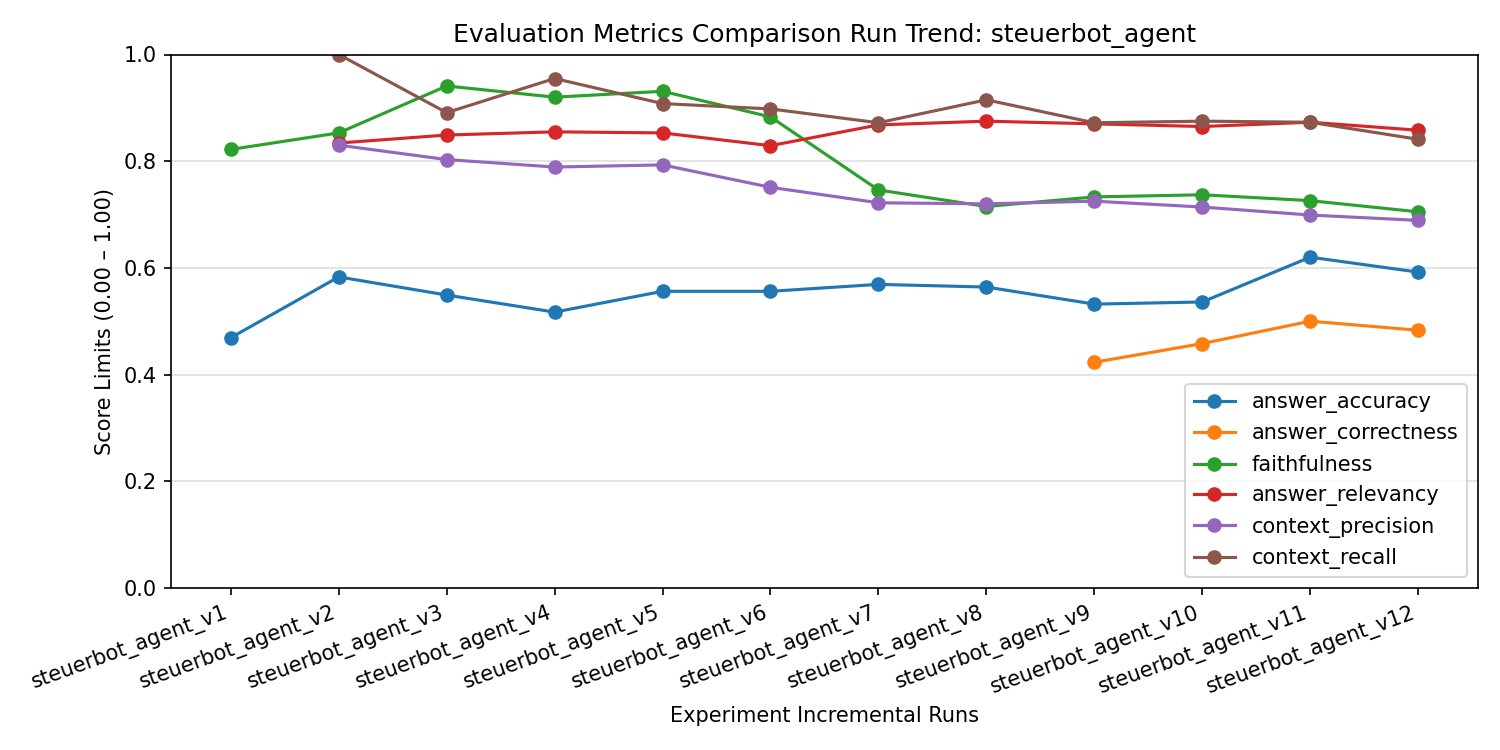
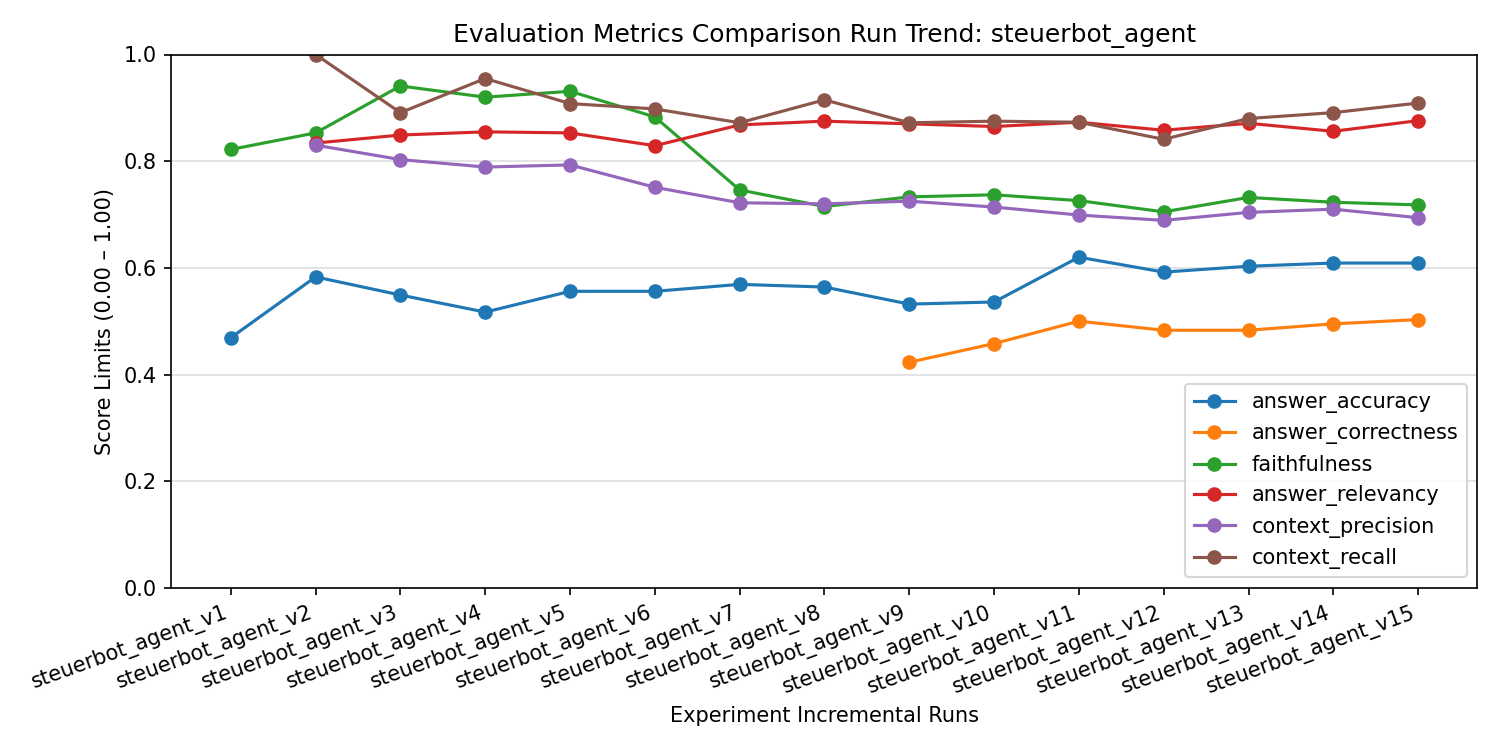
readme changes

diff --git a/README.md b/README.md
@@ -243,11 +243,11 @@ Die Evaluation verwendet das [RAGAS](https://docs.ragas.io/)-Framework mit 5 Met
 
 | **Metrik**        | letztes Resultat | unser Fazit                                                                                                                                                                                                                          |
 | ----------------- | -------- | ------------------------------------------------------------------------------------------------------------------------------------------------------------------------------------------------------------------------------------ |
-| answer_accuracy   | 0.556    | Die meisten Antworten im Testset sind ein Satz lang. Ein Agent der korrekt antwortet, aber ausführlicher formuliert, landet wahrscheinlich bei 0.5 statt 1.0.                                                                        |
-| faithfulness      | 0.883    | Der Agent antwortet in 88% der Fälle ausschliesslich aus den gegebenen Quellen ohne zu halluzinieren. Leider wissen wir nicht, wie wir das Testergebnis weiter optimieren könnten ohne einen Kompromiss im System-Prompt einzugehen. |
-| answer_relevancy  | 0.829    | Die Antworten beantworten in den meisten Fällen die gestellte Frage. Nur 1 Frage unter 0.5. Mittelwert von 0.829 deutet darauf hin, dass der Agent manchmal zu ausschweifend antwortet.                                              |
-| context_precision | 0.751    | 12 von 50 Fragen haben Precision unter 0.5. Das heisst, unter den gefundenen Chunks sind viele irrelevante dabei. Hier machen wir ein Trade-Off                                                                                      |
-| context_recall    | 0.898    | Werden alle relevanten Infos gefunden?                                                                                                                                                                                               |
+| answer_accuracy   | 0.609    | Die meisten Antworten im Testset sind ein Satz lang. Ein Agent der korrekt antwortet, aber ausführlicher formuliert, landet wahrscheinlich bei 0.5 statt 1.0.                                                                        |
+| faithfulness      | 0.718    | Der Agent antwortet in 88% der Fälle ausschliesslich aus den gegebenen Quellen ohne zu halluzinieren. Leider wissen wir nicht, wie wir das Testergebnis weiter optimieren könnten ohne einen Kompromiss im System-Prompt einzugehen. |
+| answer_relevancy  | 0.876    | Die Antworten beantworten in den meisten Fällen die gestellte Frage. Nur 1 Frage unter 0.5. Mittelwert von 0.829 deutet darauf hin, dass der Agent manchmal zu ausschweifend antwortet.                                              |
+| context_precision | 0.694    | 12 von 50 Fragen haben Precision unter 0.5. Das heisst, unter den gefundenen Chunks sind viele irrelevante dabei. Hier machen wir ein Trade-Off                                                                                      |
+| context_recall    | 0.909    | Die relevanten Infos werden fast immer gefunden.                                                                                                                                                                                               |
 
 Anfangs haben wir versucht das Testset mit RAGAS erstellen lassen, was leider aber immer wieder zu Fehlermeldungen geführt hat. Darum haben wir schlussendlich das Testset von Claude erstellen lassen. Es enthält 50 Fragen aus 12 Themenkategorien (Steuerpflicht, Einkommen, Abzüge, Tabellen, ESTV-Kreisschreiben, Buch, etc.).
 
@@ -257,6 +257,8 @@ Leide haben wir anfangs die Test-Ergebnisse immer wieder in einer Datei übersch
 ```bash
 uv run python evals/ragas_eval.py
 ```
+
+![Evaluation Metrics Verlauf](evals/experiments/steuerbot_agent_verlauf.png)
 
 Insgesamt haben wir an den verschiendensten Parametern (Anzahl Token, overlap, temperature, chunk size, top-k) geschraubt, um die Zuverlässigkeit des Chatbots zu erhöhen. Vieles ging über das wiederholte überarbeiten und testen des System-Prompts und der Docstrings. Ein weiteres sehr wichtiges Element war das Überarbeiten der Chunking-Strategie mit dem Querry-Rewriting und dem Reranker. Möglicherweise liegt der niedrige Wert von `answer_accuracy` auch am zu wenig ausführlichen Testset.
 
